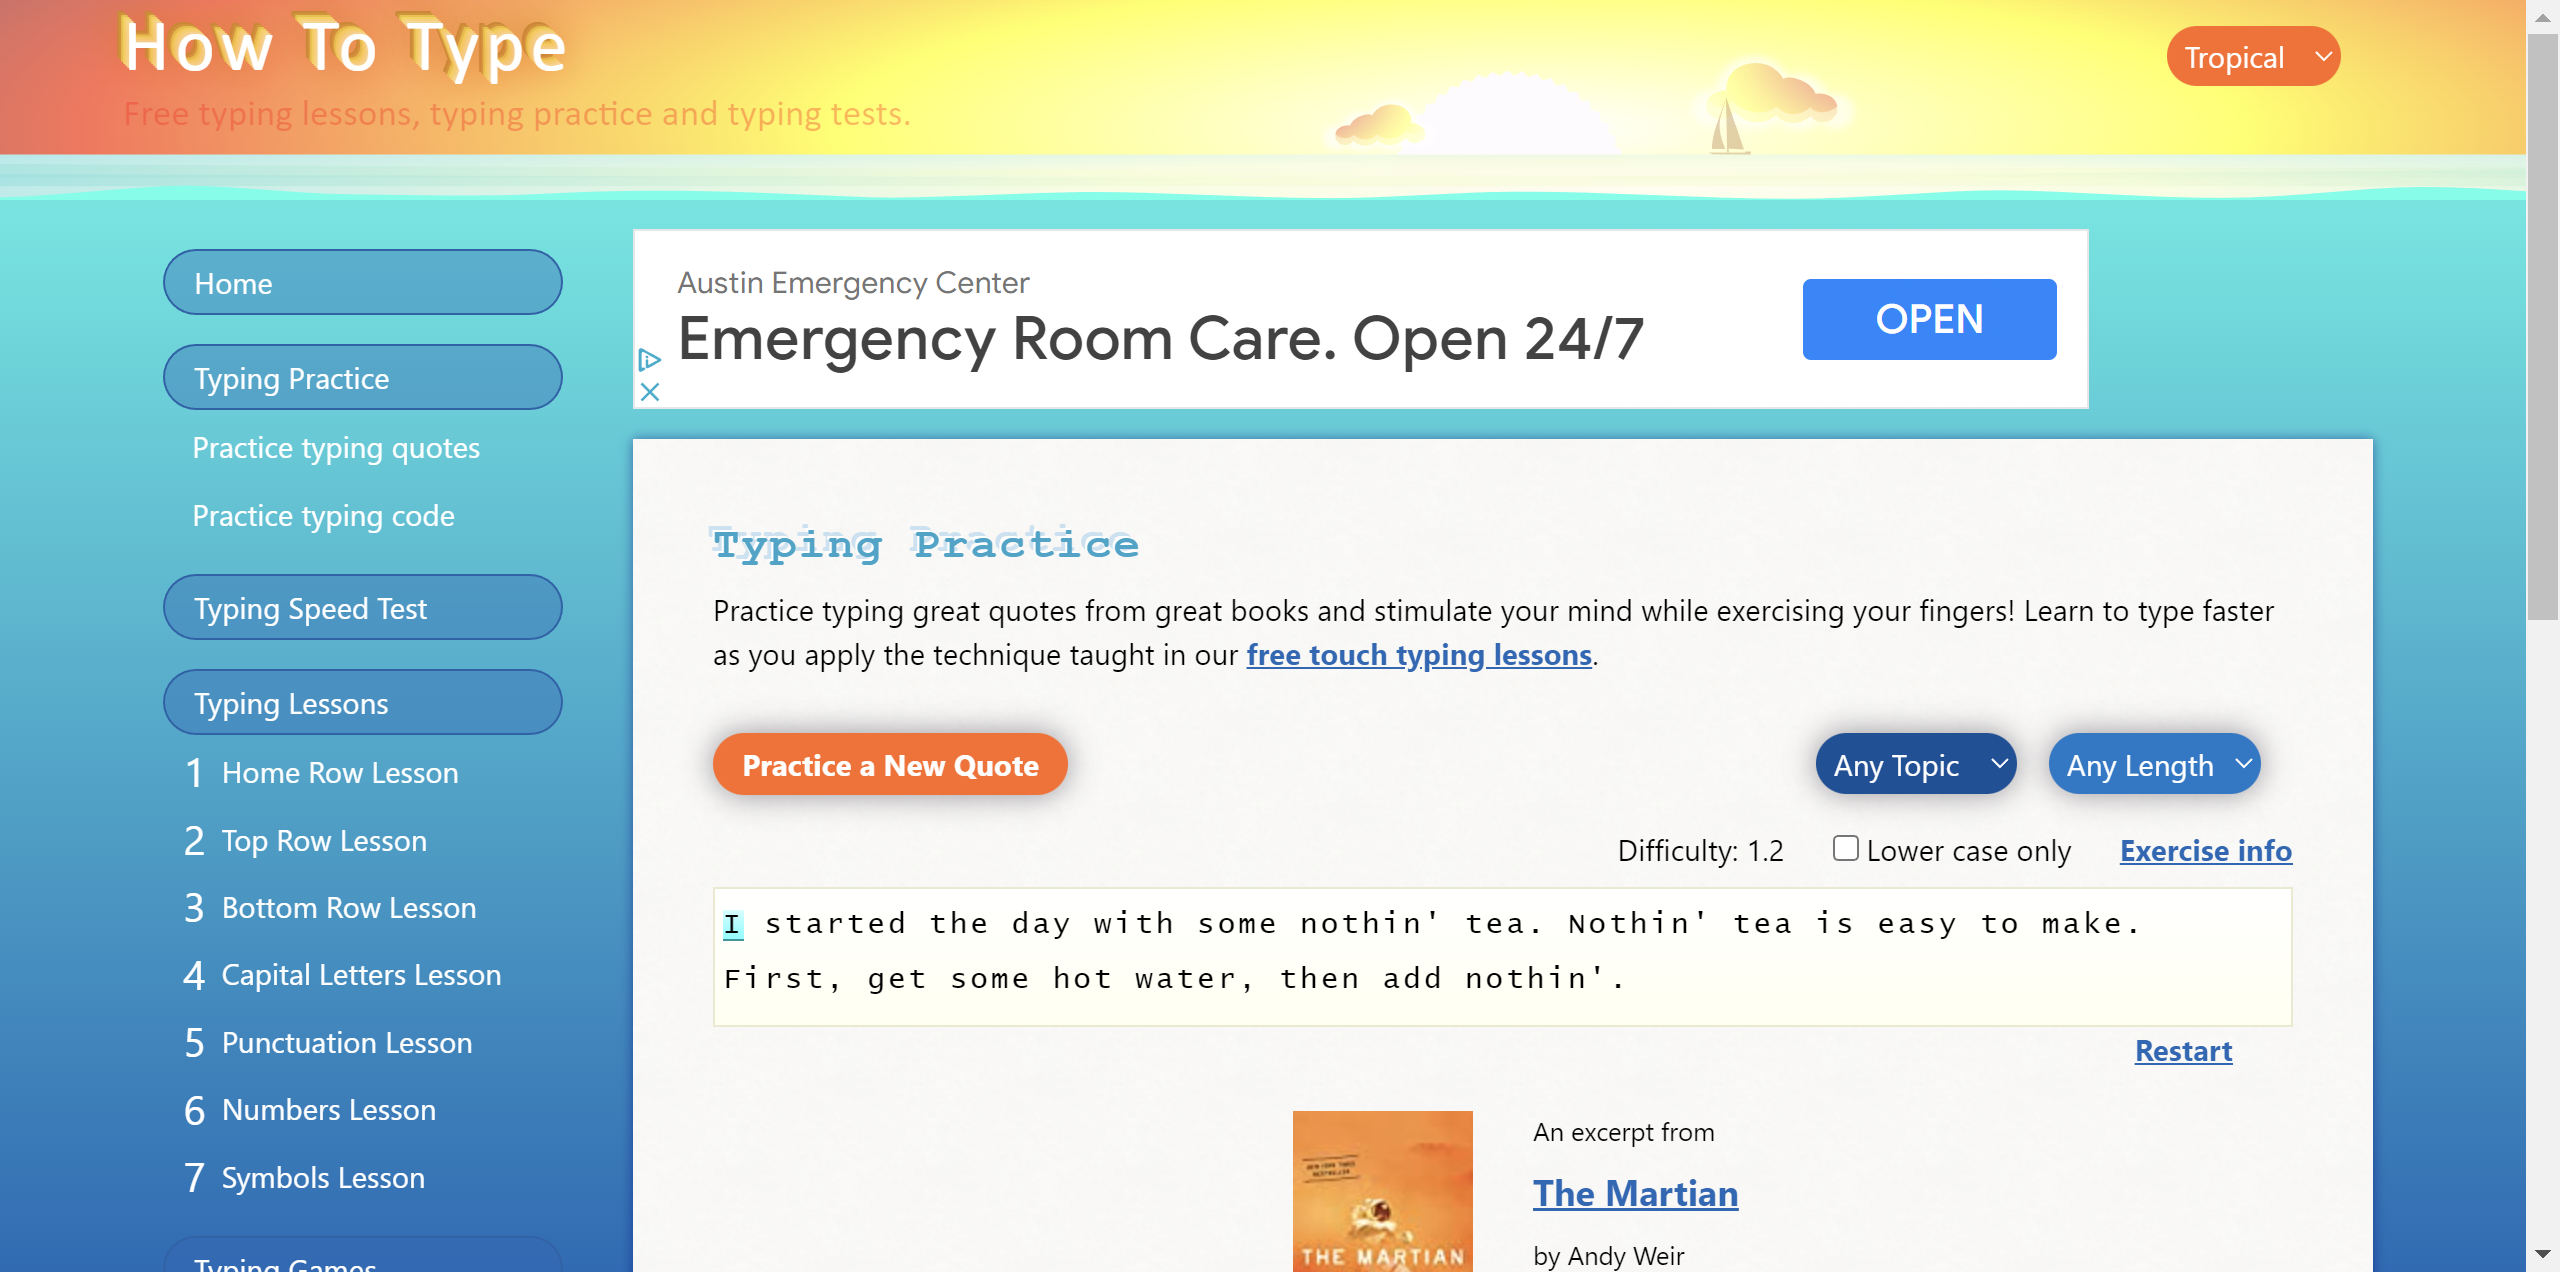
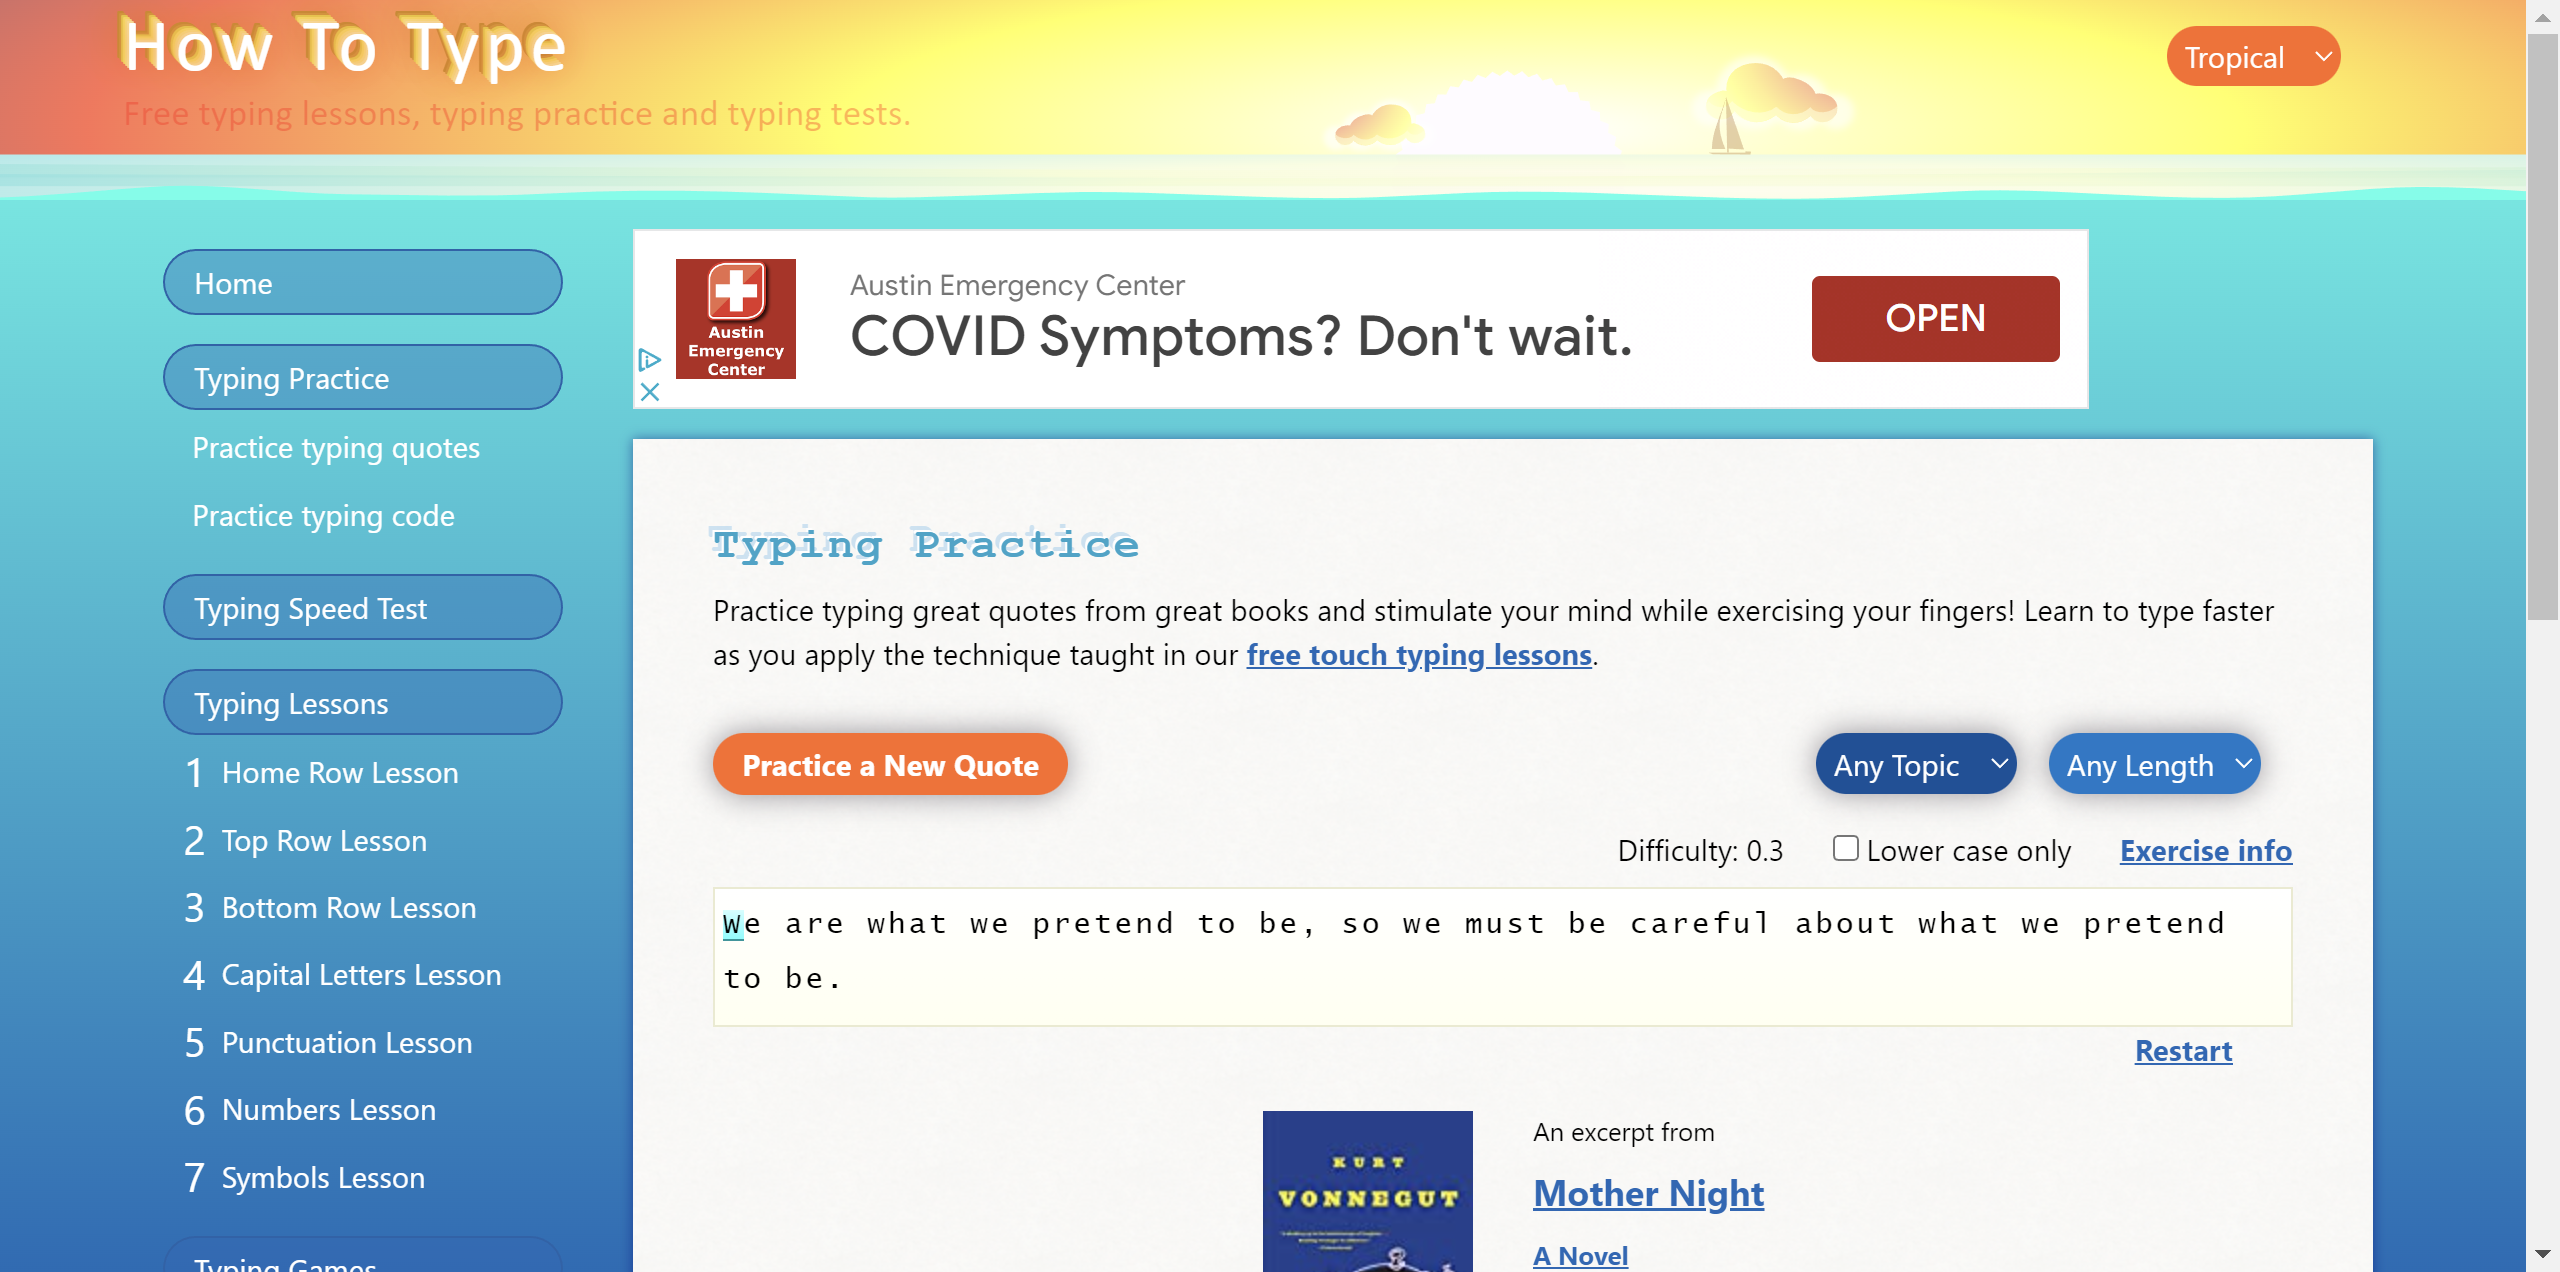
Screen shot now captures short length text. HARD CODED

diff --git a/getimg.py b/getimg.py
@@ -12,7 +12,9 @@ def lanchBrowser():
     
     
     driver.get("https://www.how-to-type.com/typing-practice/quote/")
+    time.sleep(4)
     return driver
+
 driver = lanchBrowser()
 
 def getScreenshot():
@@ -22,7 +24,7 @@ def getScreenshot():
     shows final product
     '''
     # navigation and image capture
-    element = driver.find_element_by_class_name("quote")
+    element = driver.find_element_by_id("content")
     location = element.location
     size = element.size
     driver.save_screenshot('ss.png')
@@ -33,19 +35,20 @@ def getScreenshot():
     width = location['x']+size['width']
     height = location['y']+size['height']
     im = Image.open('ss.png')
-    im = im.crop((int(x), int(y), int(width), int(height)))
-    im.save('element.png')    
+    im = im.crop((x+650, y+800, width+1070, height+100))
+    im.save('element.png')   
 
     # shows results
     screenshot = Image.open('ss.png')
     screenshot.show()
     im.show()
+    print(element, location, size, x, y, width, height)
 
 getScreenshot()
 
 
 def closeBrowser():
-    time.sleep(10)
+    time.sleep(3)
     driver.close()
     return driver
 
